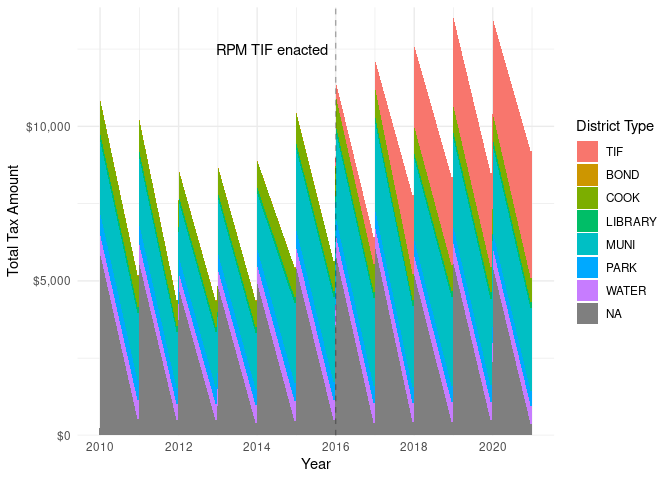
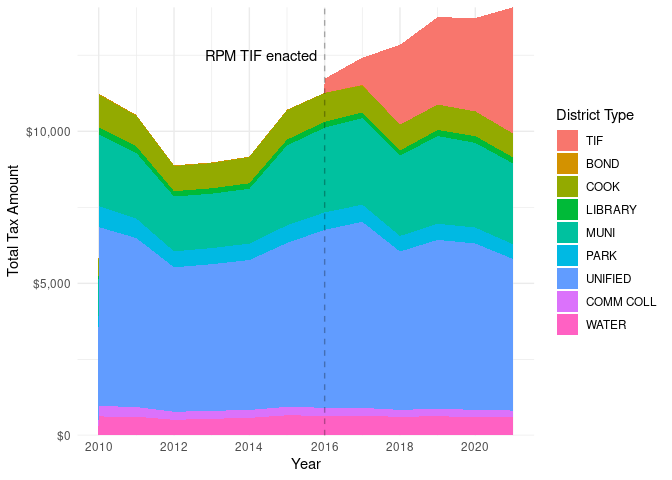
Update README for new minor_type

diff --git a/README.md b/README.md
@@ -10,7 +10,7 @@
 >
 > [**Link to PTAXSIM
 > database**](https://ccao-data-public-us-east-1.s3.amazonaws.com/ptaxsim/ptaxsim-2021.0.2.db.bz2)
-> (DB version: 2021.0.2; Last updated: 2023-04-25 17:43:17)
+> (DB version: 2021.0.2; Last updated: 2023-04-25 19:04:56)
 
 PTAXSIM is an R package/database to approximate Cook County property tax
 bills. It uses real assessment, exemption, TIF, and levy data to
@@ -171,7 +171,7 @@ single_bill
 #>  4: CITY OF CHICAGO LIBRARY F... MUNICIPALITY/TOWNSHIP           LIBRARY
 #>  5: CITY OF CHICAGO SCHOOL BL... MUNICIPALITY/TOWNSHIP              MUNI
 #>  6: TIF - CHICAGO - BRONZEVIL... MUNICIPALITY/TOWNSHIP               TIF
-#>  7: CHICAGO COMMUNITY COLLEGE...                SCHOOL COMMUNITY COLLEGE
+#>  7: CHICAGO COMMUNITY COLLEGE...                SCHOOL         COMM COLL
 #>  8:           BOARD OF EDUCATION                SCHOOL           UNIFIED
 #>  9:        CHICAGO PARK DISTRICT         MISCELLANEOUS              PARK
 #> 10: CHICAGO PARK DISTRICT AQU...         MISCELLANEOUS              BOND
@@ -381,7 +381,7 @@ multiple_years
 #>   4: CITY OF CHICAGO LIBRARY F... MUNICIPALITY/TOWNSHIP           LIBRARY
 #>   5: CITY OF CHICAGO SCHOOL BL... MUNICIPALITY/TOWNSHIP              MUNI
 #>  ---                                                                     
-#> 122: CHICAGO COMMUNITY COLLEGE...                SCHOOL COMMUNITY COLLEGE
+#> 122: CHICAGO COMMUNITY COLLEGE...                SCHOOL         COMM COLL
 #> 123:           BOARD OF EDUCATION                SCHOOL           UNIFIED
 #> 124:        CHICAGO PARK DISTRICT         MISCELLANEOUS              PARK
 #> 125: CHICAGO PARK DISTRICT AQU...         MISCELLANEOUS              BOND
@@ -414,7 +414,7 @@ multiple_years_summ <- multiple_years %>%
       agency_minor_type,
       levels = c(
         "TIF", "BOND", "COOK", "LIBRARY",
-        "MUNI", "PARK", "SCHOOL", "WATER"
+        "MUNI", "PARK", "UNIFIED", "COMM COLL", "WATER"
       )
     )
   )
@@ -445,7 +445,7 @@ multiple_years_plot <- ggplot(data = multiple_years_summ) +
     expand = c(0, 0)
   ) +
   scale_x_continuous(name = "Year", n.breaks = 7) +
-  scale_fill_manual(values = scales::hue_pal()(8)) +
+  scale_fill_manual(values = scales::hue_pal()(9)) +
   theme_minimal() +
   guides(fill = guide_legend(title = "District Type"))
 ```
